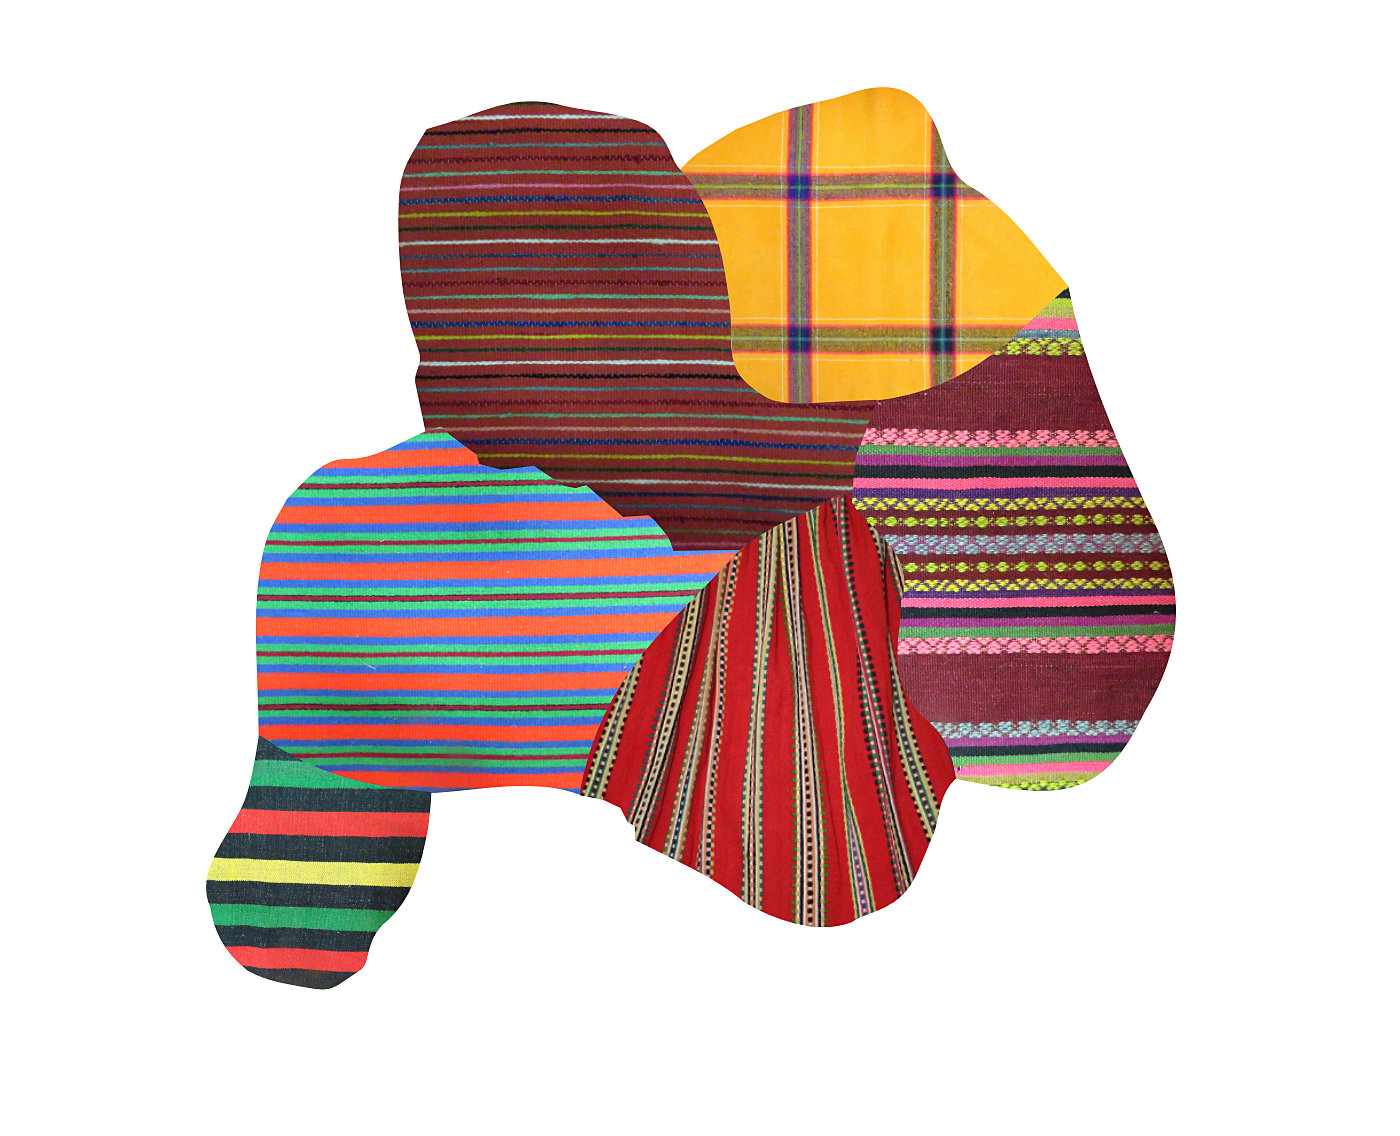
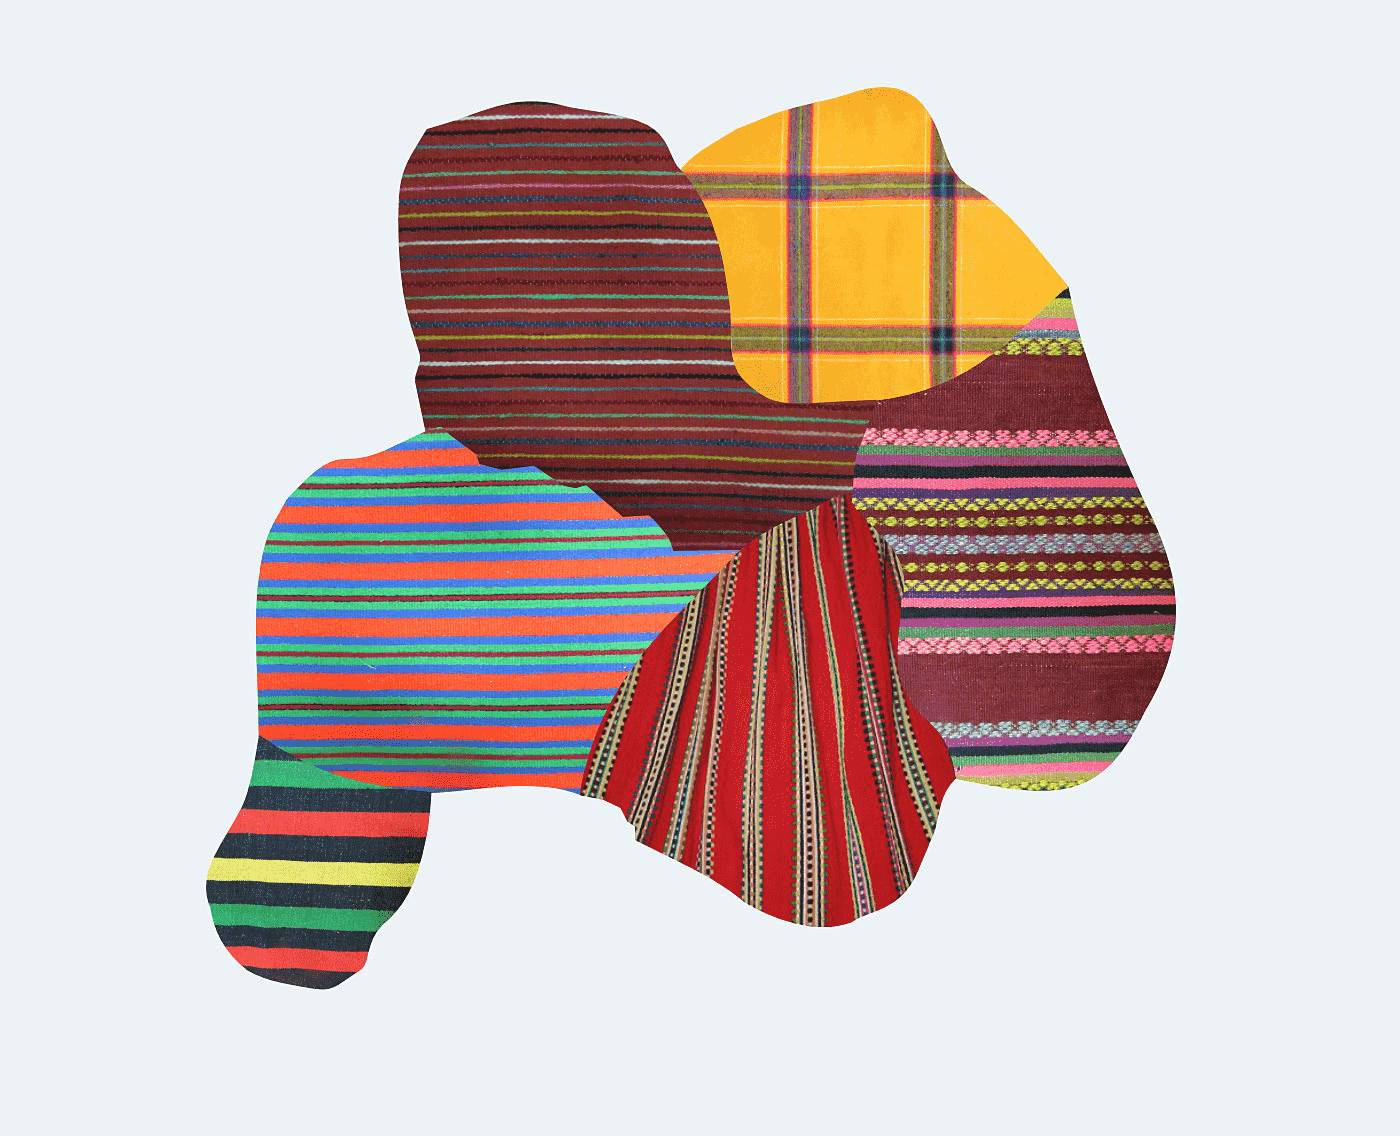
tworczynie, foty surowce

diff --git a/assets/main.css b/assets/main.css
@@ -151,9 +151,6 @@ main {
   transform-origin: bottom left;
   transform: scaleX(1);
 }
-.len {
-  mix-blend-mode: multiply;
-}
 .wzorek {
[1 lines of base64/hex data omitted]
 }

diff --git a/views/tworczynie.md b/views/tworczynie.md
@@ -5,6 +5,22 @@ title: Twórczynie
 
 ## Marianna Madej
 
+Mieszka w Brzustówku k. Opoczna. Z tkactwem związana całe życie. Na potrzeby projektu podjęła się stworzenia pasiaka. Tkactwo to jednak nie jedyne rzemiosło, jakim się zajmuje. Z utkanego materiału pani Marianna szyje stroje ludowe dla dzieci i dorosłych. Zajmuje się też *frandzlowaniem* kwiecistych chustek (czyli dorabianiem do nich wełnianych frędzli). Przy pracy śpiewa czasem piosenki regionalne, wiele z nich sama ułożyła. W naszej filmowej ekipie zasłynęła również jako niezrównana wytwórczyni kiszonych ogórków.
+
+{% foto "tworczynie1.jpg", "Marianna Madej, fot. Alicja Woźniak" %}
+
+***
+
 ## Marianna Kowalczyk
 
+Szwagierka pani Marianny Madej. Jest ostatnią osobą w Brzustówku, która potrafi nie tylko tkać, ale też osnuć warsztat do tkania. W trakcie prac nad pasiakiem koordynowała wszystkie czynności związane ze snuciem na snowadle oraz nawijaniem osoby na krosno. Wchodziła między wał a nicielnice z prawdziwie kocią zwinnością. Chętnie snuje opowieści z czasów dzieciństwa.
+
+{% foto "tworczynie2.jpg", "Marianna Kowalczyk, fot. Alicja Woźniak" %}
+
+***
+
 ## Liliana Misiak-Kuźbik
+
+Swą przygodę z tkactwem zaczęła od rekonstrukcji historycznej i wykonywania krajek na bardku. Z czasem poszerzyła tę wiedzę, uczęszczając na Kurs tkacki pierwszego i drugiego stopnia w Akademii Łucznica. Na potrzeby projektu stworzyła dla nas krajkę i kraciak. Poza tkactwem zajmuje się wieloma rzemiosłami, ale obecnie w największym stopniu poświęca się renowacji mebli. Swoimi pracami i inspiracjami dzieli się na stronie MaterJa.
+
+{% foto "tworczynie3.jpg", "Liliana Misiak-Kuźbik" %}

diff --git a/views/narzedzia.md b/views/narzedzia.md
@@ -5,10 +5,18 @@ title: Narzędzia
 
 ## Krosno
 
+***
+
 ## Snowadło
+
+***
 
 ## Motowidło
 
+***
+
 ## Kołowrotek
+
+***
 
 ## Cierlice/międlice

diff --git a/views/index.md b/views/index.md
@@ -2,4 +2,4 @@
 layout: base
 title: Home
 ---
-<img src="/foto/len.jpg" class="len mx-auto">
+<img src="/foto/len.png" class="mx-auto">
